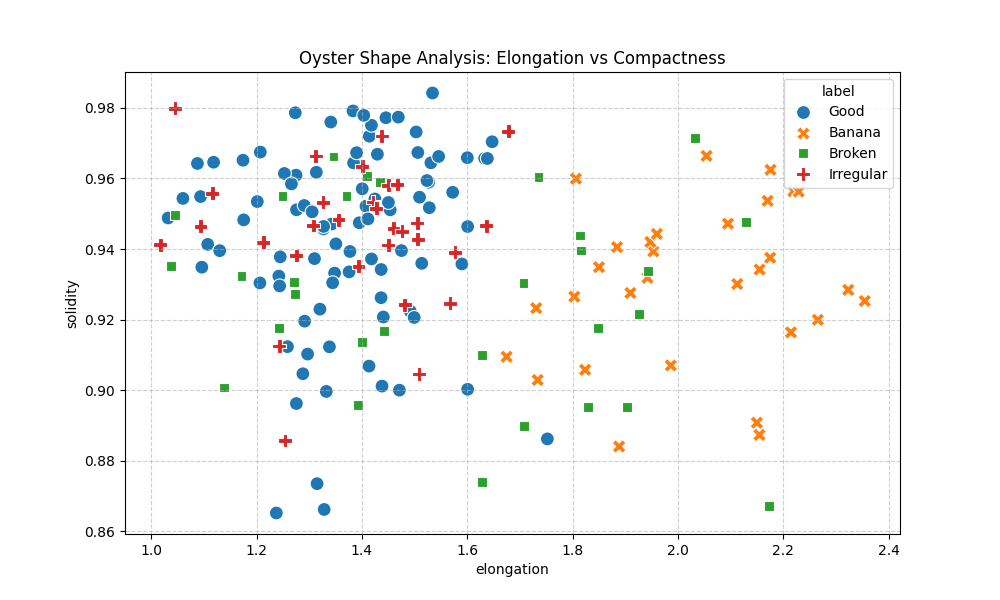
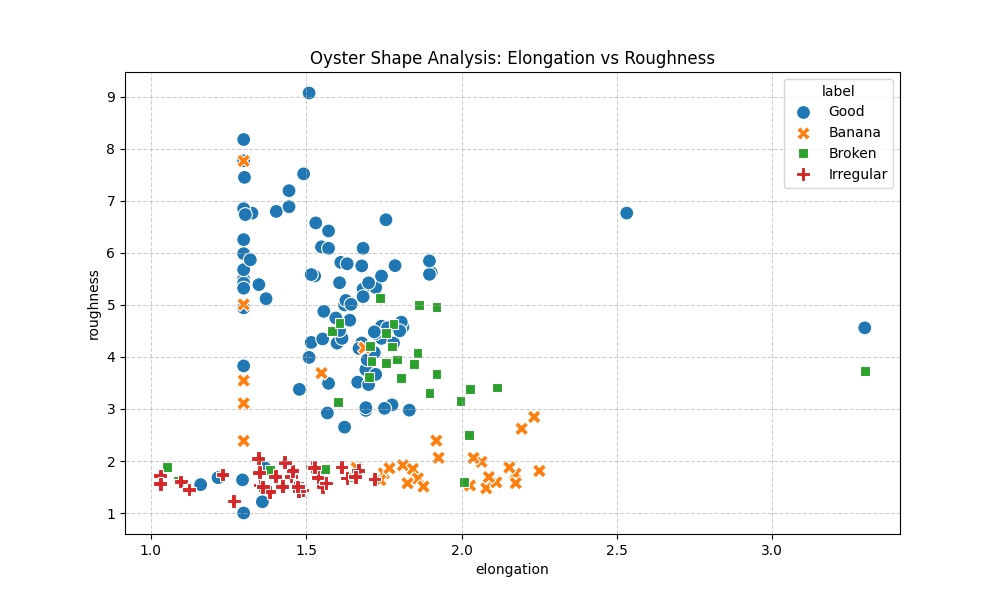
RFC 75%! modified the threshold value...

diff --git a/classification/oyster_classify_2.py b/classification/oyster_classify_2.py
@@ -14,6 +14,9 @@ from sklearn.metrics import confusion_matrix
 import xgboost as xgb
 from sklearn.metrics import classification_report, accuracy_score
 from sklearn.utils.class_weight import compute_sample_weight
+from sklearn.svm import SVC
+from sklearn.metrics import classification_report
+
 
 ROOT_DIR = "oyster_shell/"
 BG_PATH = os.path.join(ROOT_DIR, "background.tif")
@@ -30,7 +33,7 @@ def preprocess_oyster(image_path, bg_path):
     img_blur = cv2.GaussianBlur(img, (5, 5), 0)
     diff = cv2.absdiff(img_blur, bg)
     gray_diff = cv2.cvtColor(diff, cv2.COLOR_BGR2GRAY)
-    _, mask = cv2.threshold(gray_diff, 30, 255, cv2.THRESH_BINARY)
+    _, mask = cv2.threshold(gray_diff, 5, 255, cv2.THRESH_BINARY)
     # _, mask = cv2.threshold(gray_diff, 10, 255, cv2.THRESH_BINARY+ cv2.THRESH_OTSU)
     
     return img, mask
@@ -62,19 +65,17 @@ def get_oyster_metrics(mask):
     
     # Equivalent Diameter
     equiv_diameter = np.sqrt(4 * area / np.pi)
-    M = cv2.moments(cnt)
-    hu_moments = cv2.HuMoments(M).flatten()
-    
-    # Log transform to bring tiny values into a usable range for the model
-    # We use absolute values to avoid log of negative numbers
-    for i in range(0, 7):
-        hu_moments[i] = -1 * np.sign(hu_moments[i]) * np.log10(np.abs(hu_moments[i]) + 1e-20)
+
+    # roughness
+    hull_perimeter = cv2.arcLength(hull, True)
+    roughness = perimeter / (hull_perimeter + 1e-5)
 
     # Combine everything into the dictionary
     results = {
         "compactness": compactness,
         "elongation": elongation,
         "solidity": solidity,
+        "roughness": roughness,
         "extent": extent,
         "contour": cnt # Keep for visualization
     }
@@ -152,9 +153,9 @@ def extract_all_features(data_dir, bg_path):
 def plot_oyster_features(df):
     plt.figure(figsize=(10, 6))
     # Plot Elongation vs Compactness
-    sns.scatterplot(data=df, x='elongation', y='solidity', hue='label', style='label', s=100)
+    sns.scatterplot(data=df, x='elongation', y='roughness', hue='label', style='label', s=100)
     
-    plt.title("Oyster Shape Analysis: Elongation vs Compactness")
+    plt.title("Oyster Shape Analysis: Elongation vs Roughness")
     plt.grid(True, linestyle='--', alpha=0.6)
     plt.savefig("pd_feature_map.png")
 
@@ -282,6 +283,7 @@ if __name__ == "__main__":
 
     print("Extracting Train Features...")
     df_train = extract_all_features(os.path.join(ROOT_DIR, "train"), BG_PATH)
+    plot_oyster_features(df_train)
 
     print("Extracting Test Features...")
     df_test = extract_all_features(os.path.join(ROOT_DIR, "test"), BG_PATH)
@@ -289,7 +291,7 @@ if __name__ == "__main__":
     # Scaling the data
     # We "fit" on train and "transform" on test to prevent data leakage
     scaler = StandardScaler()
-    feature_cols = ['compactness', 'elongation', 'solidity', 'extent']
+    feature_cols = ['compactness', 'elongation', 'solidity', 'roughness', 'extent']
     df_train[feature_cols] = scaler.fit_transform(df_train[feature_cols])
     df_test[feature_cols] = scaler.transform(df_test[feature_cols])
 
@@ -334,35 +336,58 @@ if __name__ == "__main__":
 
     X_test = df_test[feature_cols]
     y_test = pd.Categorical(df_test['label']).codes
+    classes = sorted(df_train['label'].unique())
 
-    # 2. Initialize the Model
-    # 'multi:softprob' is for multi-class classification
-    # we use 'n_estimators' to give it enough trees to learn
-    sample_weights = compute_sample_weight(class_weight='balanced', y=y_train)
-    model_xgb = xgb.XGBClassifier(
-        n_estimators=100,
-        max_depth=6,
-        learning_rate=0.25,
-        objective='multi:softprob',
-        num_class=4,
+    # # 2. Initialize the Model
+    # # 'multi:softprob' is for multi-class classification
+    # # we use 'n_estimators' to give it enough trees to learn
+    # sample_weights = compute_sample_weight(class_weight='balanced', y=y_train)
+    # model_xgb = xgb.XGBClassifier(
+    #     n_estimators=100,
+    #     max_depth=6,
+    #     learning_rate=0.25,
+    #     objective='multi:softprob',
+    #     num_class=4,
+    #     random_state=42
+    # )
+
+    # # 3. Fit the Model
+    # model_xgb.fit(X_train, y_train, sample_weight=sample_weights)
+
+    # # 4. Predict and Evaluate
+    # y_pred = model_xgb.predict(X_test)
+
+    # print(f"XGBoost Accuracy: {accuracy_score(y_test, y_pred):.2%}")
+    # print("\nClassification Report:")
+    # print(classification_report(y_test, y_pred, target_names=sorted(df_train['label'].unique())))
+
+    # plot_xgb_confusion_matrix(model_xgb, X_test, y_test, classes)
+
+    # xgb.plot_importance(model_xgb)
+    # plt.title("What makes an oyster? Feature Importance")
+    # plt.savefig("xgb_importance.png")
+
+    from sklearn.ensemble import RandomForestClassifier
+    from sklearn.metrics import classification_report, accuracy_score
+
+    # 1. Initialize Random Forest
+    # 'balanced_subsample' calculates weights at every tree level, which is great for overlap
+    model_rf = RandomForestClassifier(
+        n_estimators=200, 
+        max_depth=6, 
+        class_weight='balanced_subsample',
         random_state=42
     )
 
-    # 3. Fit the Model
-    model_xgb.fit(X_train, y_train, sample_weight=sample_weights)
+    # 2. Fit the model
+    model_rf.fit(X_train, y_train)
 
-    # 4. Predict and Evaluate
-    y_pred = model_xgb.predict(X_test)
+    # 3. Predict
+    y_pred_rf = model_rf.predict(X_test)
 
-    print(f"XGBoost Accuracy: {accuracy_score(y_test, y_pred):.2%}")
-    print("\nClassification Report:")
-    print(classification_report(y_test, y_pred, target_names=sorted(df_train['label'].unique())))
-
-    classes = sorted(df_train['label'].unique())
-    plot_xgb_confusion_matrix(model_xgb, X_test, y_test, classes)
-
-    xgb.plot_importance(model_xgb)
-    plt.title("What makes an oyster? Feature Importance")
-    plt.savefig("xgb_importance.png")
+    # 4. Print Results
+    print(f"Random Forest Total Accuracy: {accuracy_score(y_test, y_pred_rf):.2%}")
+    print("\nDetailed Classification Report:")
+    print(classification_report(y_test, y_pred_rf, target_names=classes))
 
 
